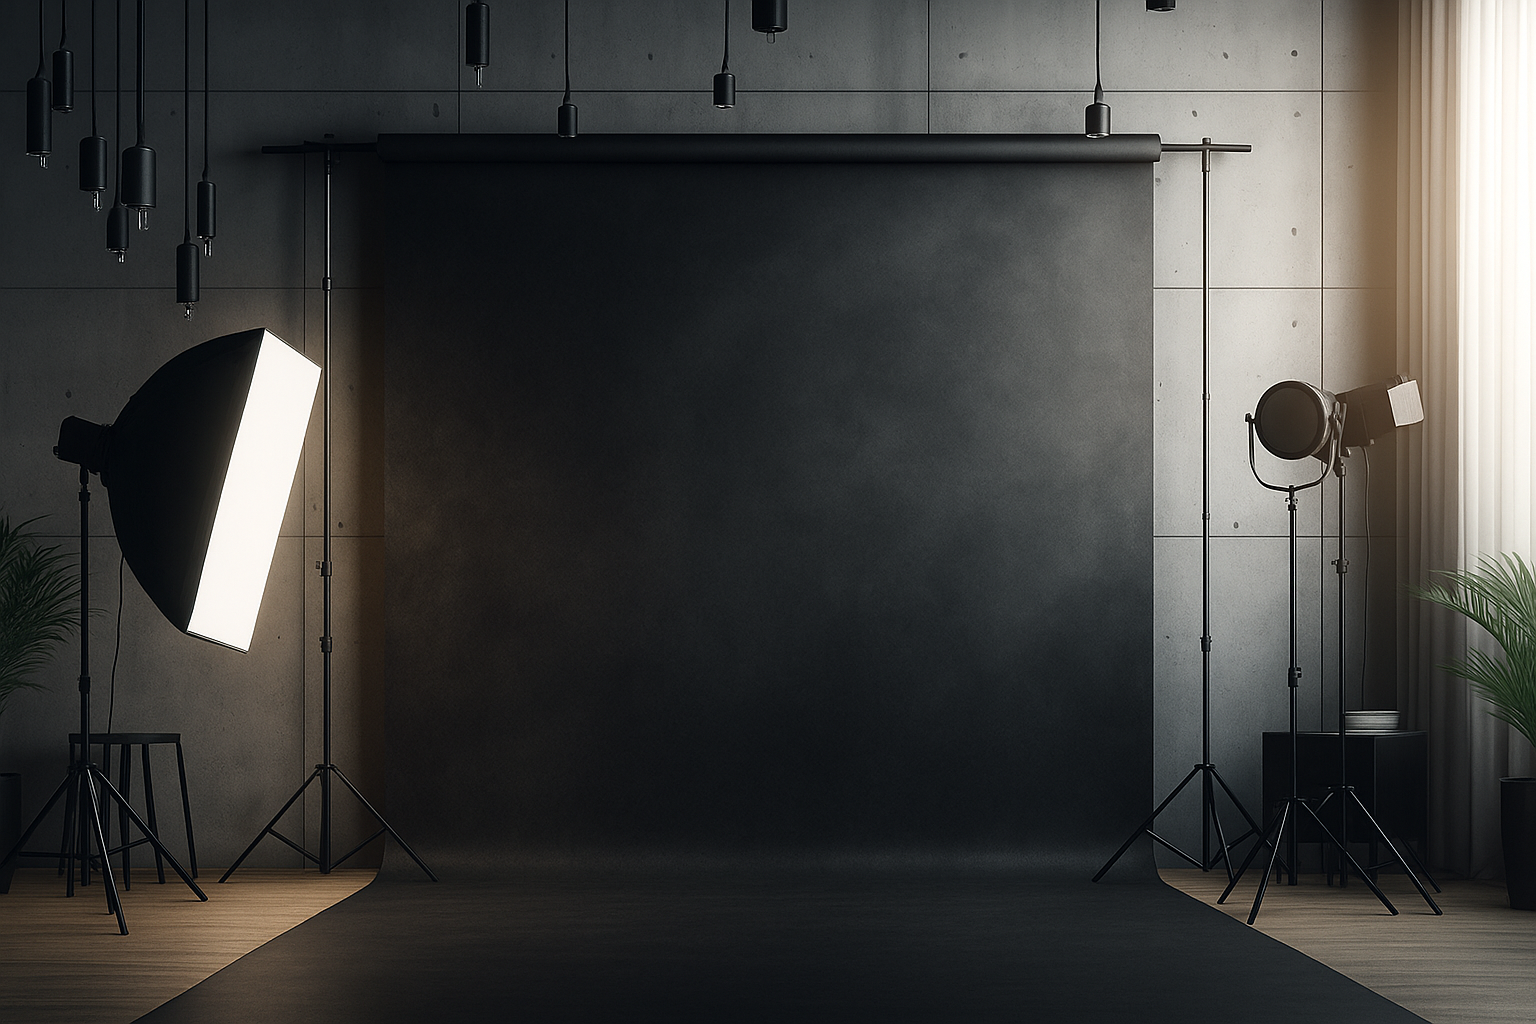
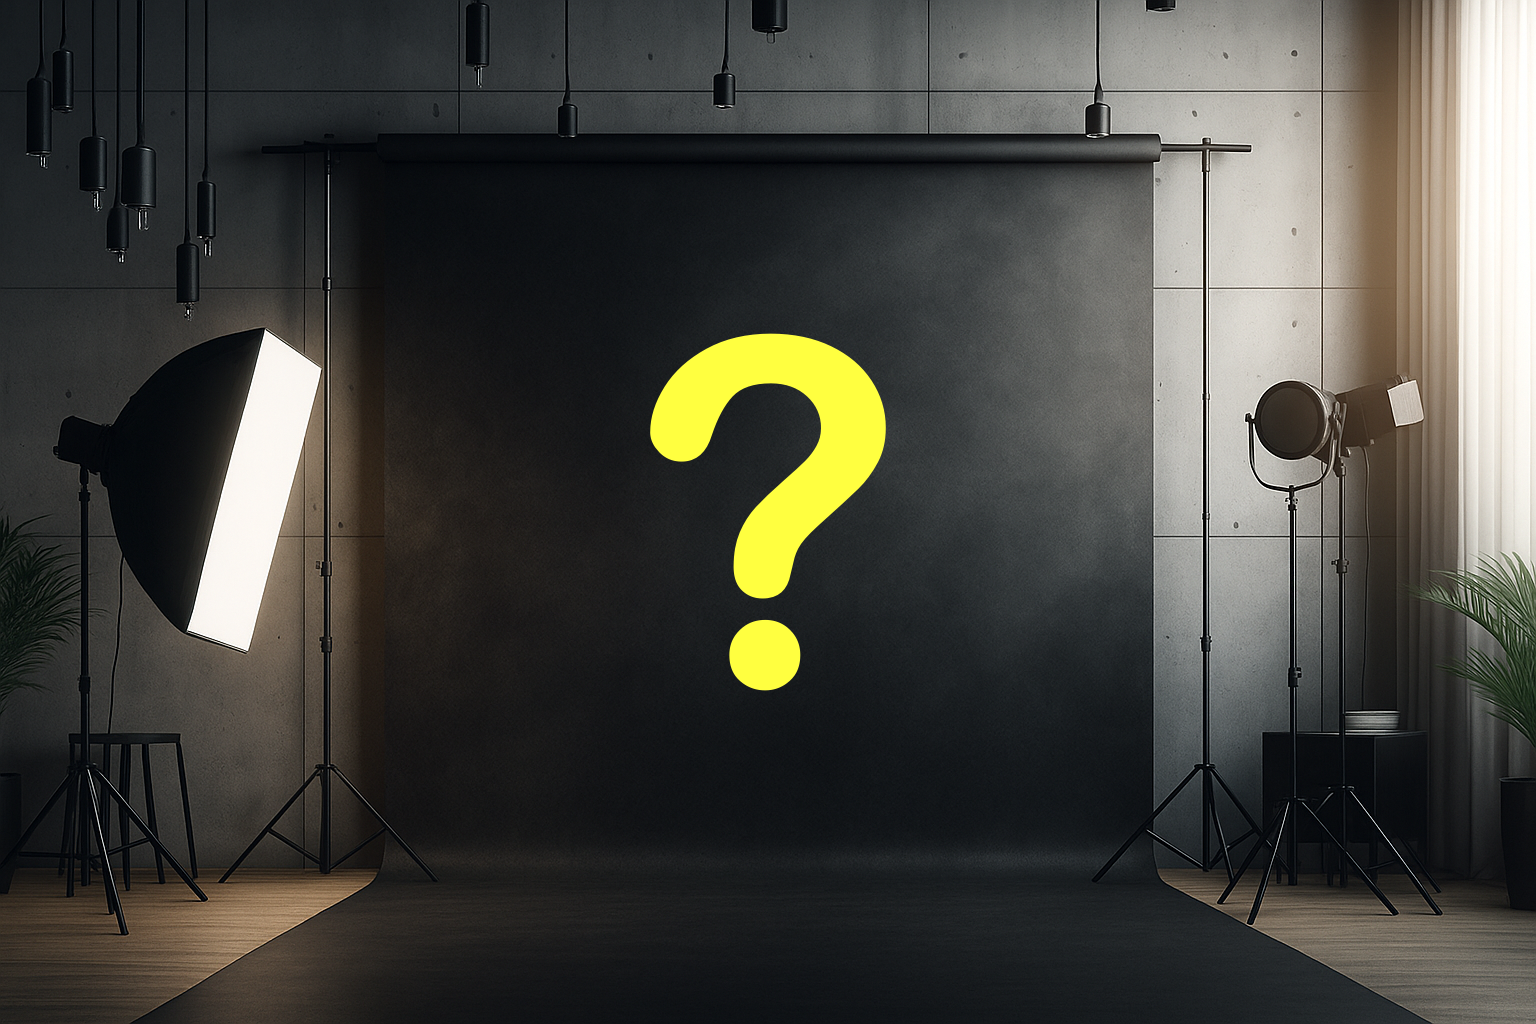
side menu styles improvement

Changed region(s): [[0.4062, 0.3125, 0.5938, 0.6875]]

diff --git a/src/components/NavBar.tsx b/src/components/NavBar.tsx
@@ -164,17 +164,17 @@ const NavBar: React.FC = () => {
 
   // 2. Agregar propiedad image a los links del menú colapsable
   const allSideMenuLinks = [
-    { path: '/', label: 'Home', image: 'https://picsum.photos/600/400?random=1' },
-    { path: '/carta', label: 'Carta', image: 'https://picsum.photos/600/400?random=2' },
-    { path: '/productos', label: 'Productos', image: 'https://picsum.photos/600/400?random=3' },
-    { path: '/sucursales', label: 'Sucursales', image: 'https://picsum.photos/600/400?random=4' },
-    { path: '/nosotros', label: 'Nosotros', image: 'https://picsum.photos/600/400?random=5' },
-    { path: '/proveedores', label: 'Proveedores', image: 'https://picsum.photos/600/400?random=6' },
-    { path: '/trabaja-con-nosotros', label: 'Trabaja con nosotros', image: 'https://picsum.photos/600/400?random=7' },
-    { path: '/franquicias', label: 'Franquicias', image: 'https://picsum.photos/600/400?random=8' },
-    { path: '/venta-corporativa', label: 'Venta corporativa', image: 'https://picsum.photos/600/400?random=9' },
-    { path: '/legales', label: 'Legales', image: 'https://picsum.photos/600/400?random=10' },
-    { path: '/3d', label: 'Studio 3D', image: 'https://picsum.photos/600/400?random=11' },
+    { path: '/', label: 'Home', image: '' },
+    { path: '/carta', label: 'Carta', image: '' },
+    { path: '/productos', label: 'Productos', image: '' },
+    { path: '/sucursales', label: 'Sucursales', image: '' },
+    { path: '/nosotros', label: 'Nosotros', image: '/side-menu/localMiGusto.webp' },
+    { path: '/proveedores', label: 'Proveedores', image: '/side-menu/proveedor.png' },
+    { path: '/trabaja-con-nosotros', label: 'Trabaja con nosotros', image: '/side-menu/staff.png' },
+    { path: '/franquicias', label: 'Franquicias', image: '/side-menu/franquicia.png' },
+    { path: '/venta-corporativa', label: 'Venta corporativa', image: '/side-menu/corporativa.png' },
+    { path: '/legales', label: 'Legales', image: '' },
+    { path: '/3d', label: 'Studio 3D', image: '/side-menu/EstudioFondo.png' },
   ];
 
   // En desktop oculto los links pedidos, en mobile muestro todos
